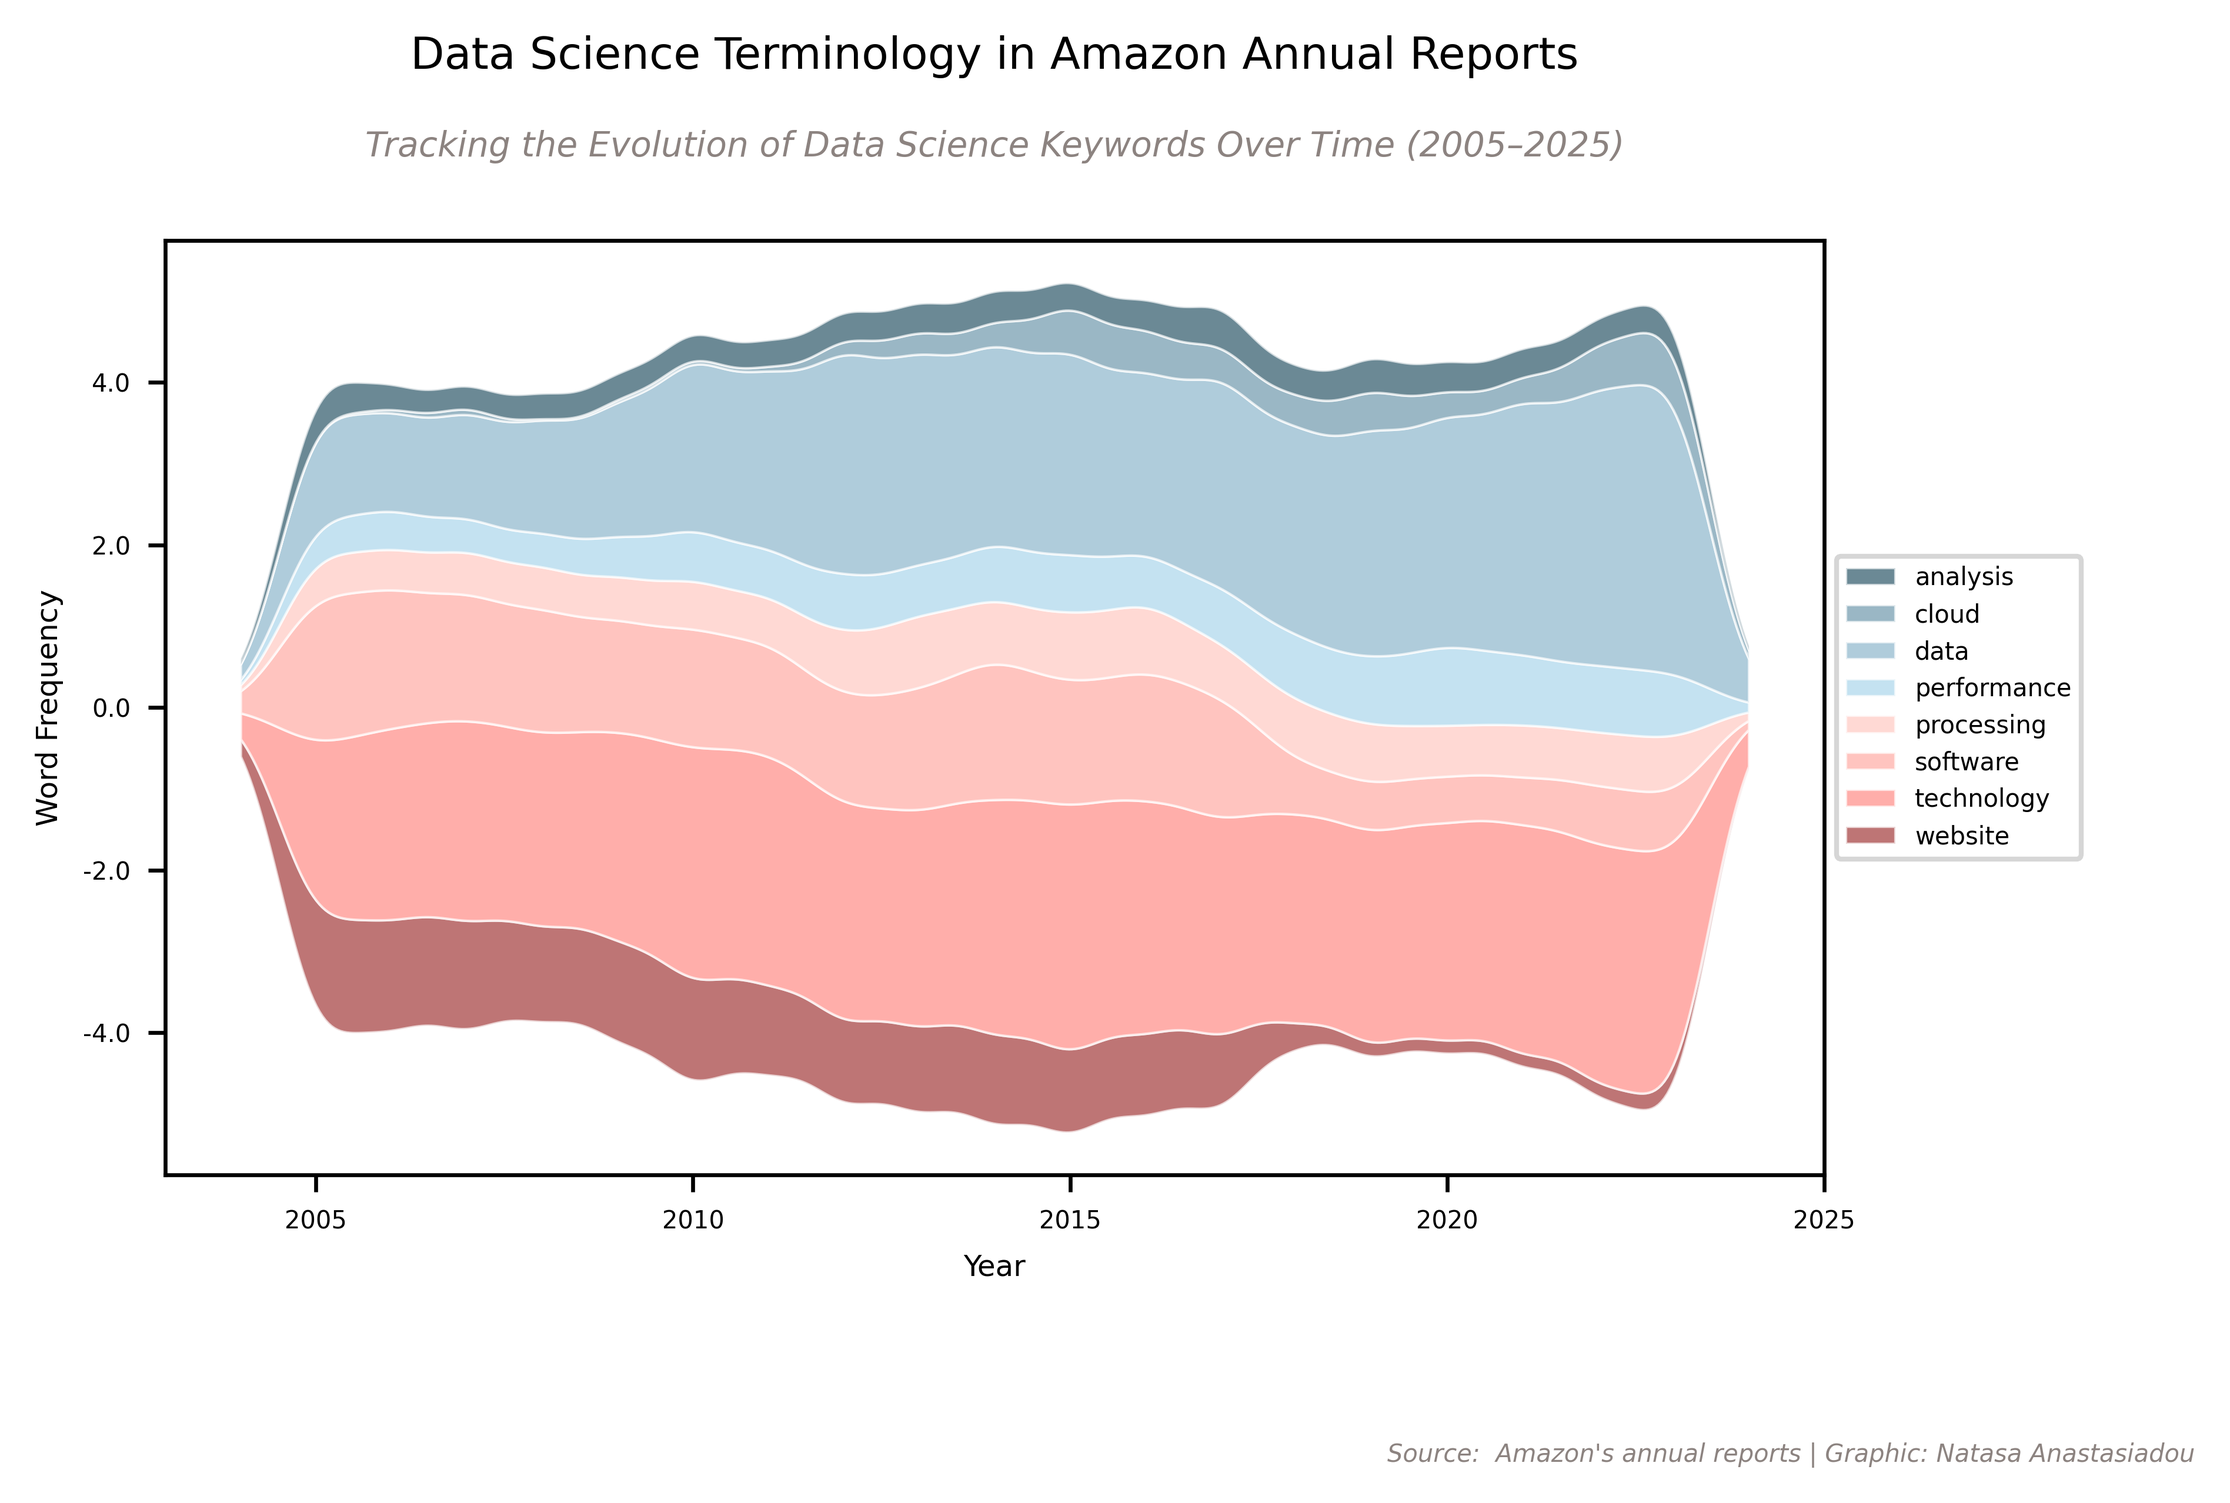
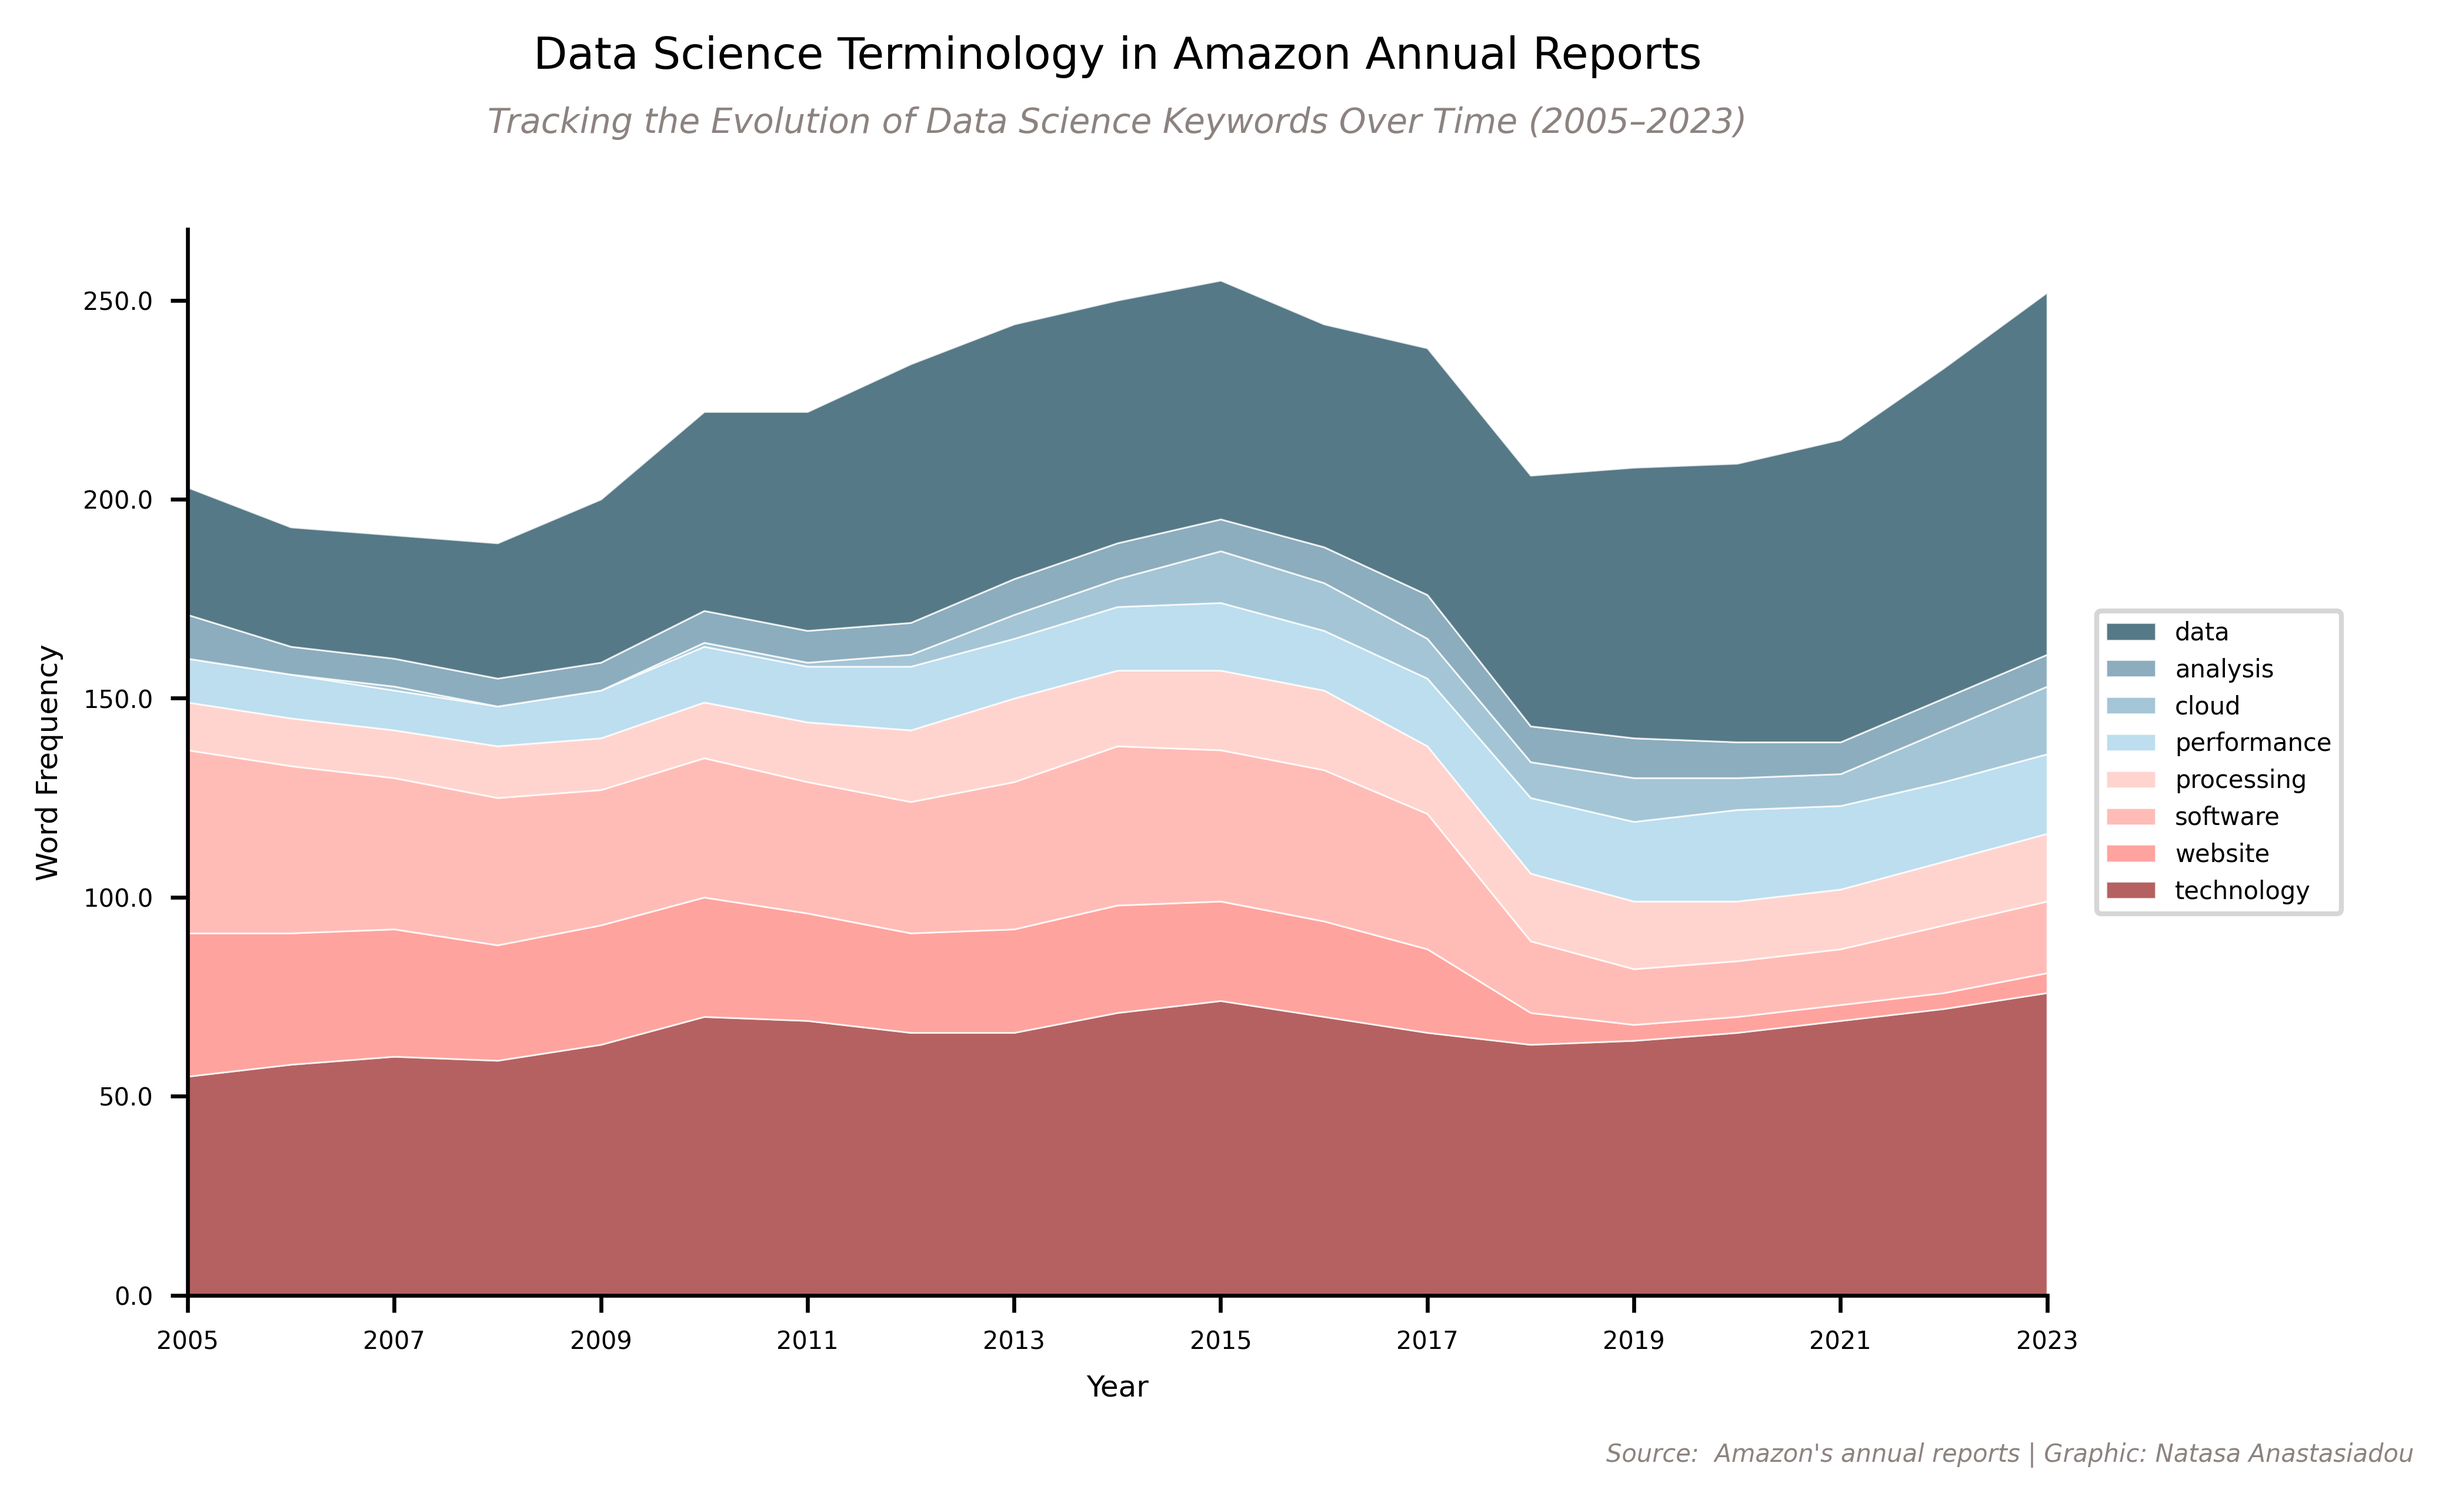
final plot

diff --git a/2025/20250325/20250325.py b/2025/20250325/20250325.py
@@ -1,81 +1,85 @@
 
+import numpy as np
 import pandas as pd
 import matplotlib.pyplot as plt
-import seaborn as sns
-import numpy as np
-from scipy import stats
+from scipy.ndimage import gaussian_filter1d
 
-# Load data ---------
-
-report_words_clean = pd.read_csv('https://raw.githubusercontent.com/rfordatascience/tidytuesday/main/data/2025/2025-03-25/report_words_clean.csv')
-
-# clean data --------
+# Load and clean data
+report_words_clean = pd.read_csv(
+    "https://raw.githubusercontent.com/rfordatascience/tidytuesday/main/data/2025/2025-03-25/report_words_clean.csv"
+)
 
 # Define keywords related to data science
 ds_keywords = ["data", "website", "cloud", "analysis", "software", "performance", "technology", "processing"]
 
-# Filter the data to include only the words you're interested in
-ds_data = report_words_clean[report_words_clean['word'].isin(ds_keywords)]
+# Filter and aggregate word counts by year
+ds_data = report_words_clean[report_words_clean["word"].isin(ds_keywords)]
+word_counts_by_year = ds_data.groupby(["year", "word"]).size().unstack(fill_value=0)
 
-# Aggregate the word counts by year (since each word appears multiple times in the same year)
-word_counts_by_year = ds_data.groupby(['year', 'word']).size().unstack(fill_value=0)
+# Apply Gaussian smoothing
+smoothed_df = word_counts_by_year.apply(lambda x: gaussian_filter1d(x, sigma=0.6))
 
-# Gaussian smoothing function
-def gaussian_smooth(x, y, grid, sd):
-    weights = np.transpose([stats.norm.pdf(grid, m, sd) for m in x])
-    weights = weights / weights.sum(0)
-    smoothed = (weights * y).sum(1)
-    return smoothed
+# Define colors
+colors = ["#a33a3a", "#ff8c86", "#ffaba4", "#ffcac3", "#acd6ec", "#8db7cc", "#6F99AD", "#2c5769"]
 
-# Create a grid for the years (adjust the range and number of points as needed)
-grid = np.linspace(2004, 2024, num=500)  # Creating a denser grid for smoother transition
+# custom order
+words = ["data", "analysis", "cloud", "performance", "processing", "software", "website", "technology"]
 
-# Prepare an empty DataFrame to store smoothed values
-smoothed_df = pd.DataFrame(index=grid)
-
-# Apply Gaussian smoothing for each word (column) in word_counts_by_year
-for word in word_counts_by_year.columns:
-    smoothed_df[word] = gaussian_smooth(word_counts_by_year.index.values, word_counts_by_year[word].values, grid, sd=0.55)  # Less smoothing here
-
+smoothed_df = smoothed_df[words]
 
 smoothed_df = smoothed_df[smoothed_df.columns[::-1]]  # Reverse column order
 
 
-# Plotting the smoothed data using stackplot
-fig, ax = plt.subplots(figsize=(12, 10))
+# Create figure
+fig, ax = plt.subplots(figsize=(10, 6))
+
+# Plot stacked area chart with smoothed data
+ax.stackplot(
+    smoothed_df.index, 
+    smoothed_df.T, 
+    labels=smoothed_df.columns, 
+    colors=colors, 
+    alpha=0.8, 
+    edgecolor='white', 
+    linewidth=0.35
+)
 
 
-col = ['#a33a3a', '#ff8c86', '#ffaba4', '#ffcac3', '#acd6ec', '#8db7cc','#6F99AD', '#2c5769']
 
-# col = ['#2c5769', '#6F99AD', '#8db7cc', '#acd6ec', '#ffcac3', '#ffaba4','#ff8c86', '#a33a3a']
+# Remove top, right, and left borders
+ax.spines["top"].set_visible(False)
+ax.spines["right"].set_visible(False)
 
-# Create the stream plot (stackplot)
-ax.stackplot(smoothed_df.index, smoothed_df.T, labels=smoothed_df.columns, alpha=0.7, colors=col, baseline="sym", edgecolor='white', linewidth=0.5)
 
-# Add labels and title
-# ax.set_title("Data Science Related Word Usage Over Time", fontsize=16)
+# Start x-axis from 2005
+ax.set_xlim(2005, 2023)
+
 
 ax.set_xlabel("Year", fontsize = 6)
 ax.set_ylabel("Word Frequency", fontsize = 6)
 
-handles, labels = ax.get_legend_handles_labels()
-ax.legend(handles[::-1], labels[::-1], loc='center left', bbox_to_anchor=(1, 0.5), fontsize=5)  # Move legend outside3
-
-ax.set_xticks([2005, 2010, 2015, 2020, 2025])  # Set specific years as ticks
-ax.set_xticklabels([2005, 2010, 2015, 2020, 2025], fontsize = 5)  # Ensure labels are readable
+# X-axis settings
+ax.set_xticks([2005, 2007, 2009, 2011, 2013, 2015, 2017, 2019, 2021, 2023])  
+ax.set_xticklabels([2005, 2007, 2009, 2011, 2013, 2015, 2017, 2019, 2021, 2023], fontsize = 5)
 ax.set_yticklabels(ax.get_yticks(), fontsize=5)
+
+
+# legend
+handles, labels = ax.get_legend_handles_labels()
+ax.legend(handles[::-1], labels[::-1], loc='center left', bbox_to_anchor=(1.02, 0.5), fontsize = 5)  
 
 
 plt.title(
     "Data Science Terminology in Amazon Annual Reports", 
     fontsize = 9,
     pad = 35,
-    x = 0.5
+    x = 0.5,
+    y = 0.99
     )
 
 # Add the subtitle for clarification
 plt.text(x = 0.5, y = 1.1, 
-        s = "Tracking the Evolution of Data Science Keywords Over Time (2005–2025)", 
+        s = "Tracking the Evolution of Data Science Keywords Over Time (2005–2023)", 
         ha = 'center', 
         va = 'center', 
         fontsize = 7, 
@@ -85,7 +89,7 @@ plt.text(x = 0.5, y = 1.1,
 
 # Add a caption to the plot
 plt.text(
-    x = 0.98, y = -0.3,  # Adjust x, y to position the caption below 
+    x = 0.98, y = -0.15,  # Adjust x, y to position the caption below 
     s = "Source:  Amazon's annual reports | Graphic: Natasa Anastasiadou", 
     ha = 'center', 
     va = 'center', 
@@ -103,45 +107,3 @@ plt.show()
 
 
 plt.savefig("plot.png", dpi = 600, bbox_inches='tight')  # Save with high resolution
-
-
-
-import numpy as np
-import pandas as pd
-import matplotlib.pyplot as plt
-from scipy.ndimage import gaussian_filter1d
-
-# Define a smoothing function
-def smooth_series(series, sigma=2):
-    return gaussian_filter1d(series, sigma=sigma)
-
-# Create a smoothed DataFrame
-smoothed_df = pd.DataFrame(index=word_counts_by_year.index)
-
-# Apply smoothing to each column
-for column in word_counts_by_year.columns:
-    smoothed_df[column] = smooth_series(word_counts_by_year[column], sigma=0.5)
-
-# Define colors
-colors = ['#a33a3a', '#ff8c86', '#ffaba4', '#ffcac3', '#acd6ec', '#8db7cc','#6F99AD', '#2c5769']
-
-# Create figure
-fig, ax = plt.subplots(figsize=(10, 6))
-
-# Plot stacked area chart with smoothed data
-ax.stackplot(smoothed_df.index, smoothed_df.T, labels=smoothed_df.columns, colors=colors, alpha=0.8)
-
-# Labels and title
-ax.set_xlabel("Year", fontsize=10)
-ax.set_ylabel("Word Frequency", fontsize=10)
-ax.set_title("Data Science Terminology in Amazon Reports", fontsize=12, fontweight="bold")
-
-# Set x-ticks
-ax.set_xticks(range(2005, 2025, 2))
-
-# Add a legend outside the plot
-ax.legend(loc='upper left', bbox_to_anchor=(1, 1), fontsize=9)
-
-# Show the plot
-plt.tight_layout()
-plt.show()
